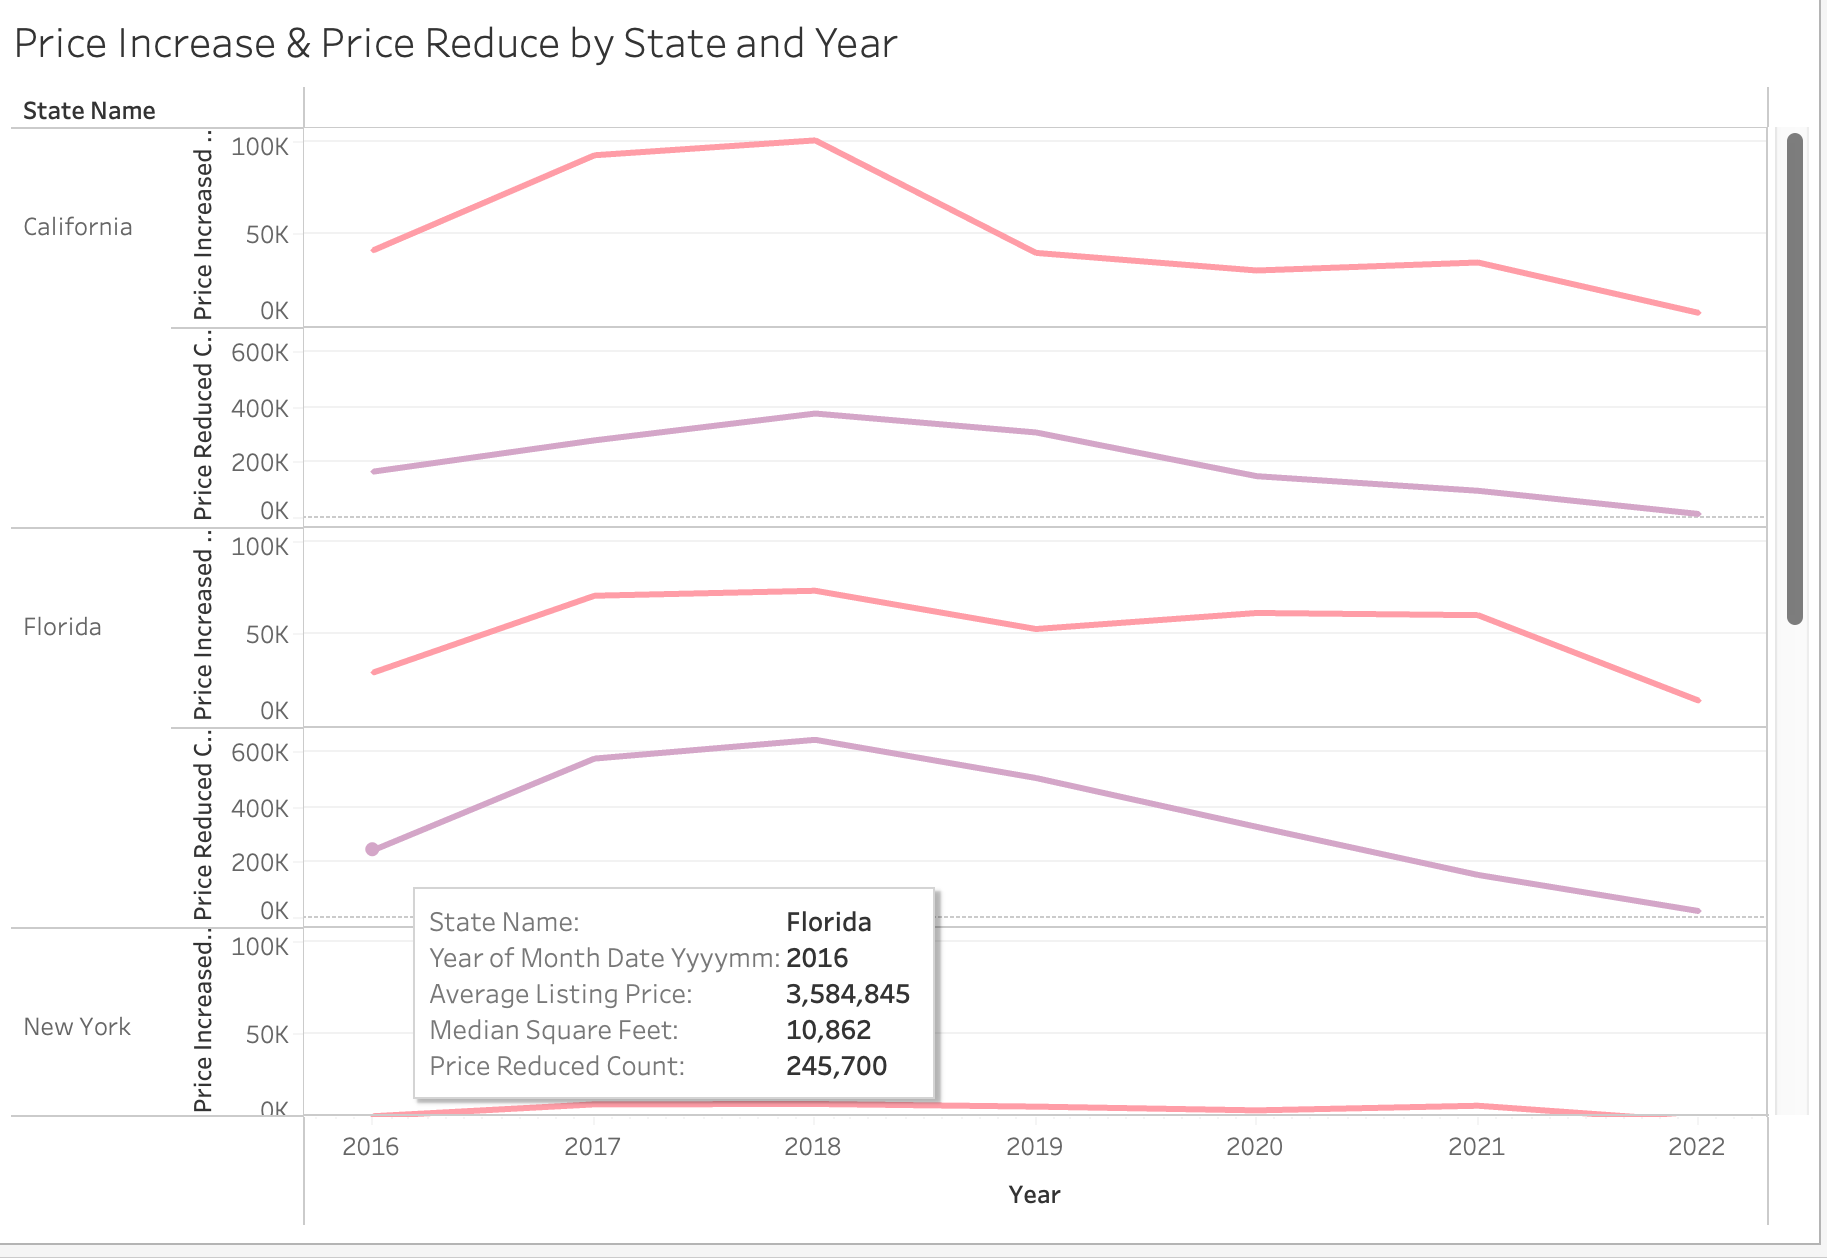
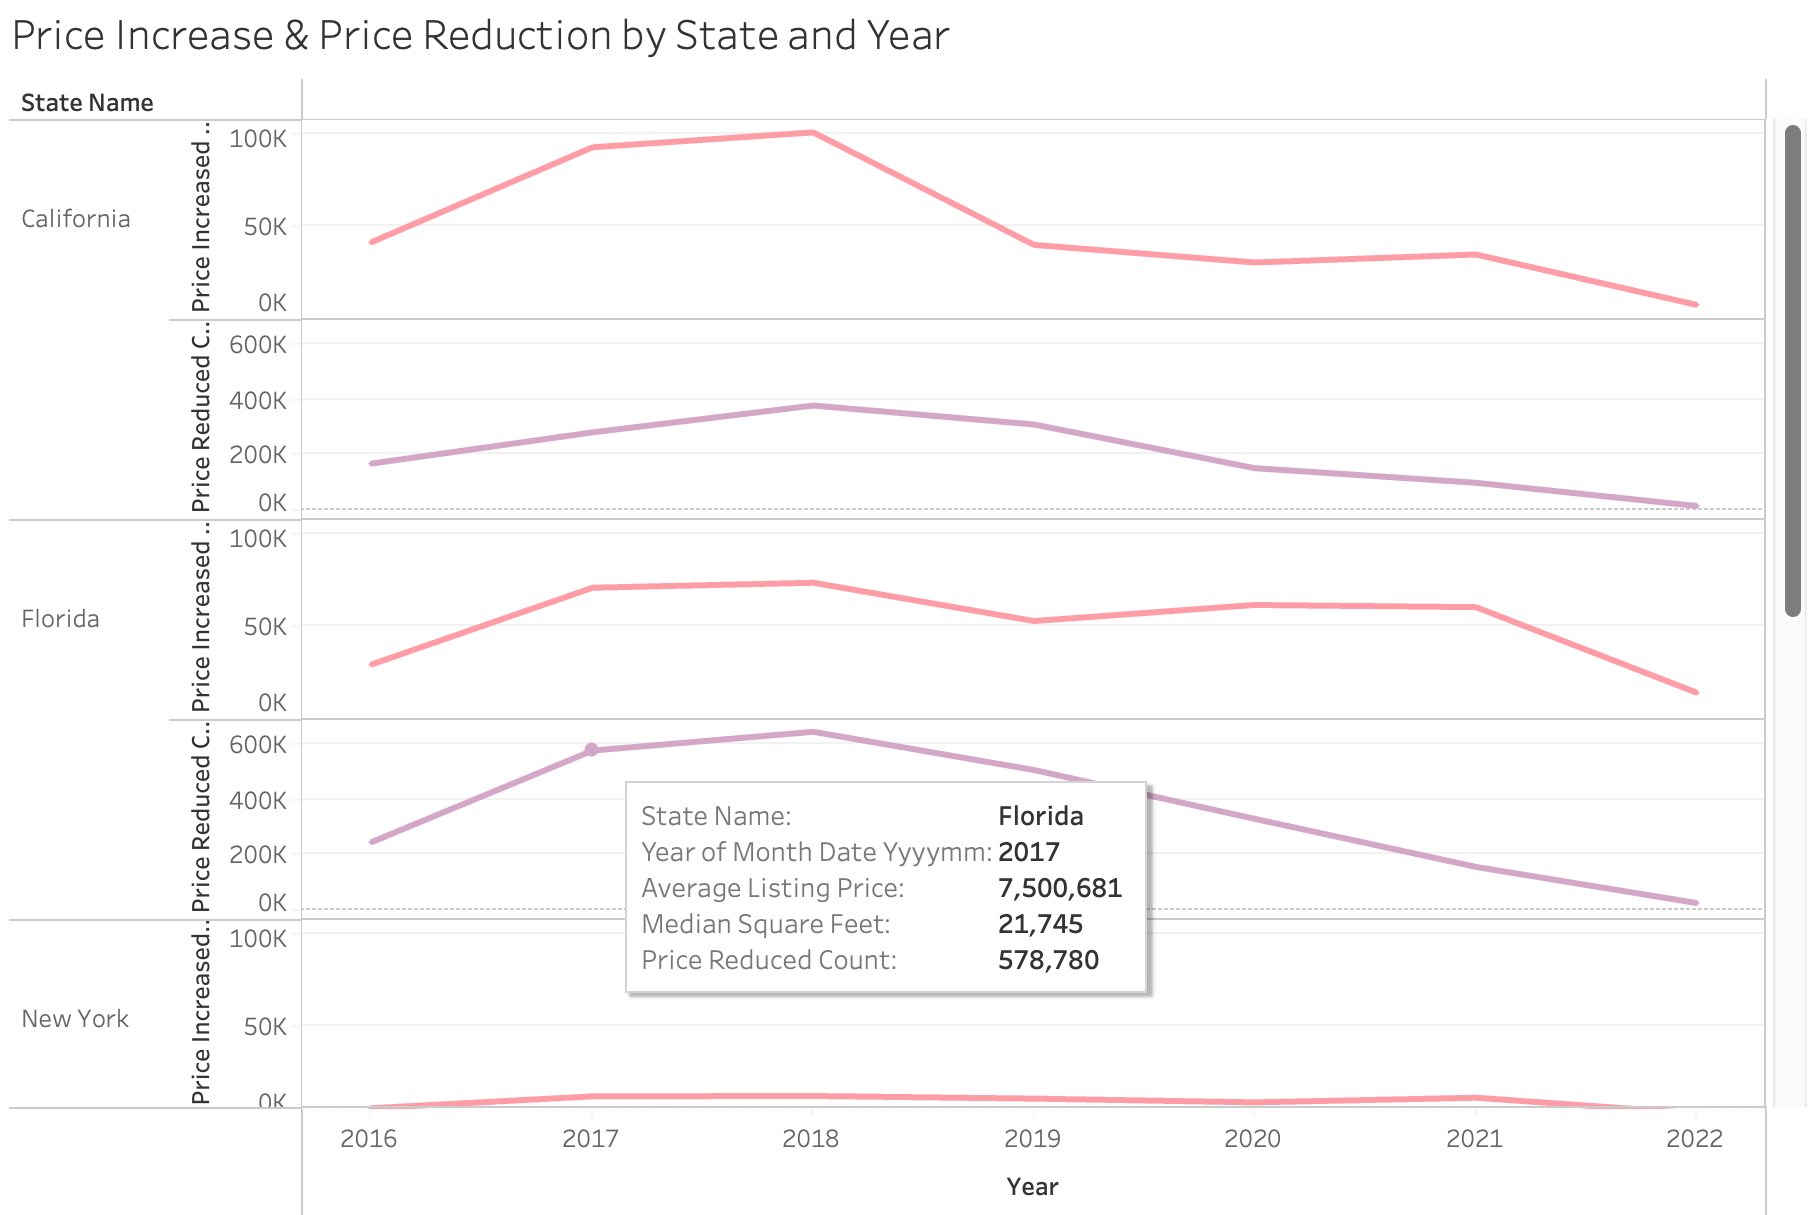
Made edits to price change image

diff --git a/README.md b/README.md
@@ -25,3 +25,5 @@ We have also created a graph titled "Average Listing Price by Year" in which the
 
 This graph includes a tooltip showing the median days properties remained on the market.
 <img width="924" alt="avg listing price interactivity" src="https://user-images.githubusercontent.com/107032720/199858877-aed90708-7df3-42d5-86e7-206f68817fe2.png">
+
+Another graph created is titled "Price Increase & Price Reduction by State and Year." This graph plots both the amounts of properties in California, Florida, New York, Tennessee, and Texas that experienced an increase and a reduction in price from 2016 to 2022. The graph also includes a tooltip highlighting the average listing price and median square foot.
